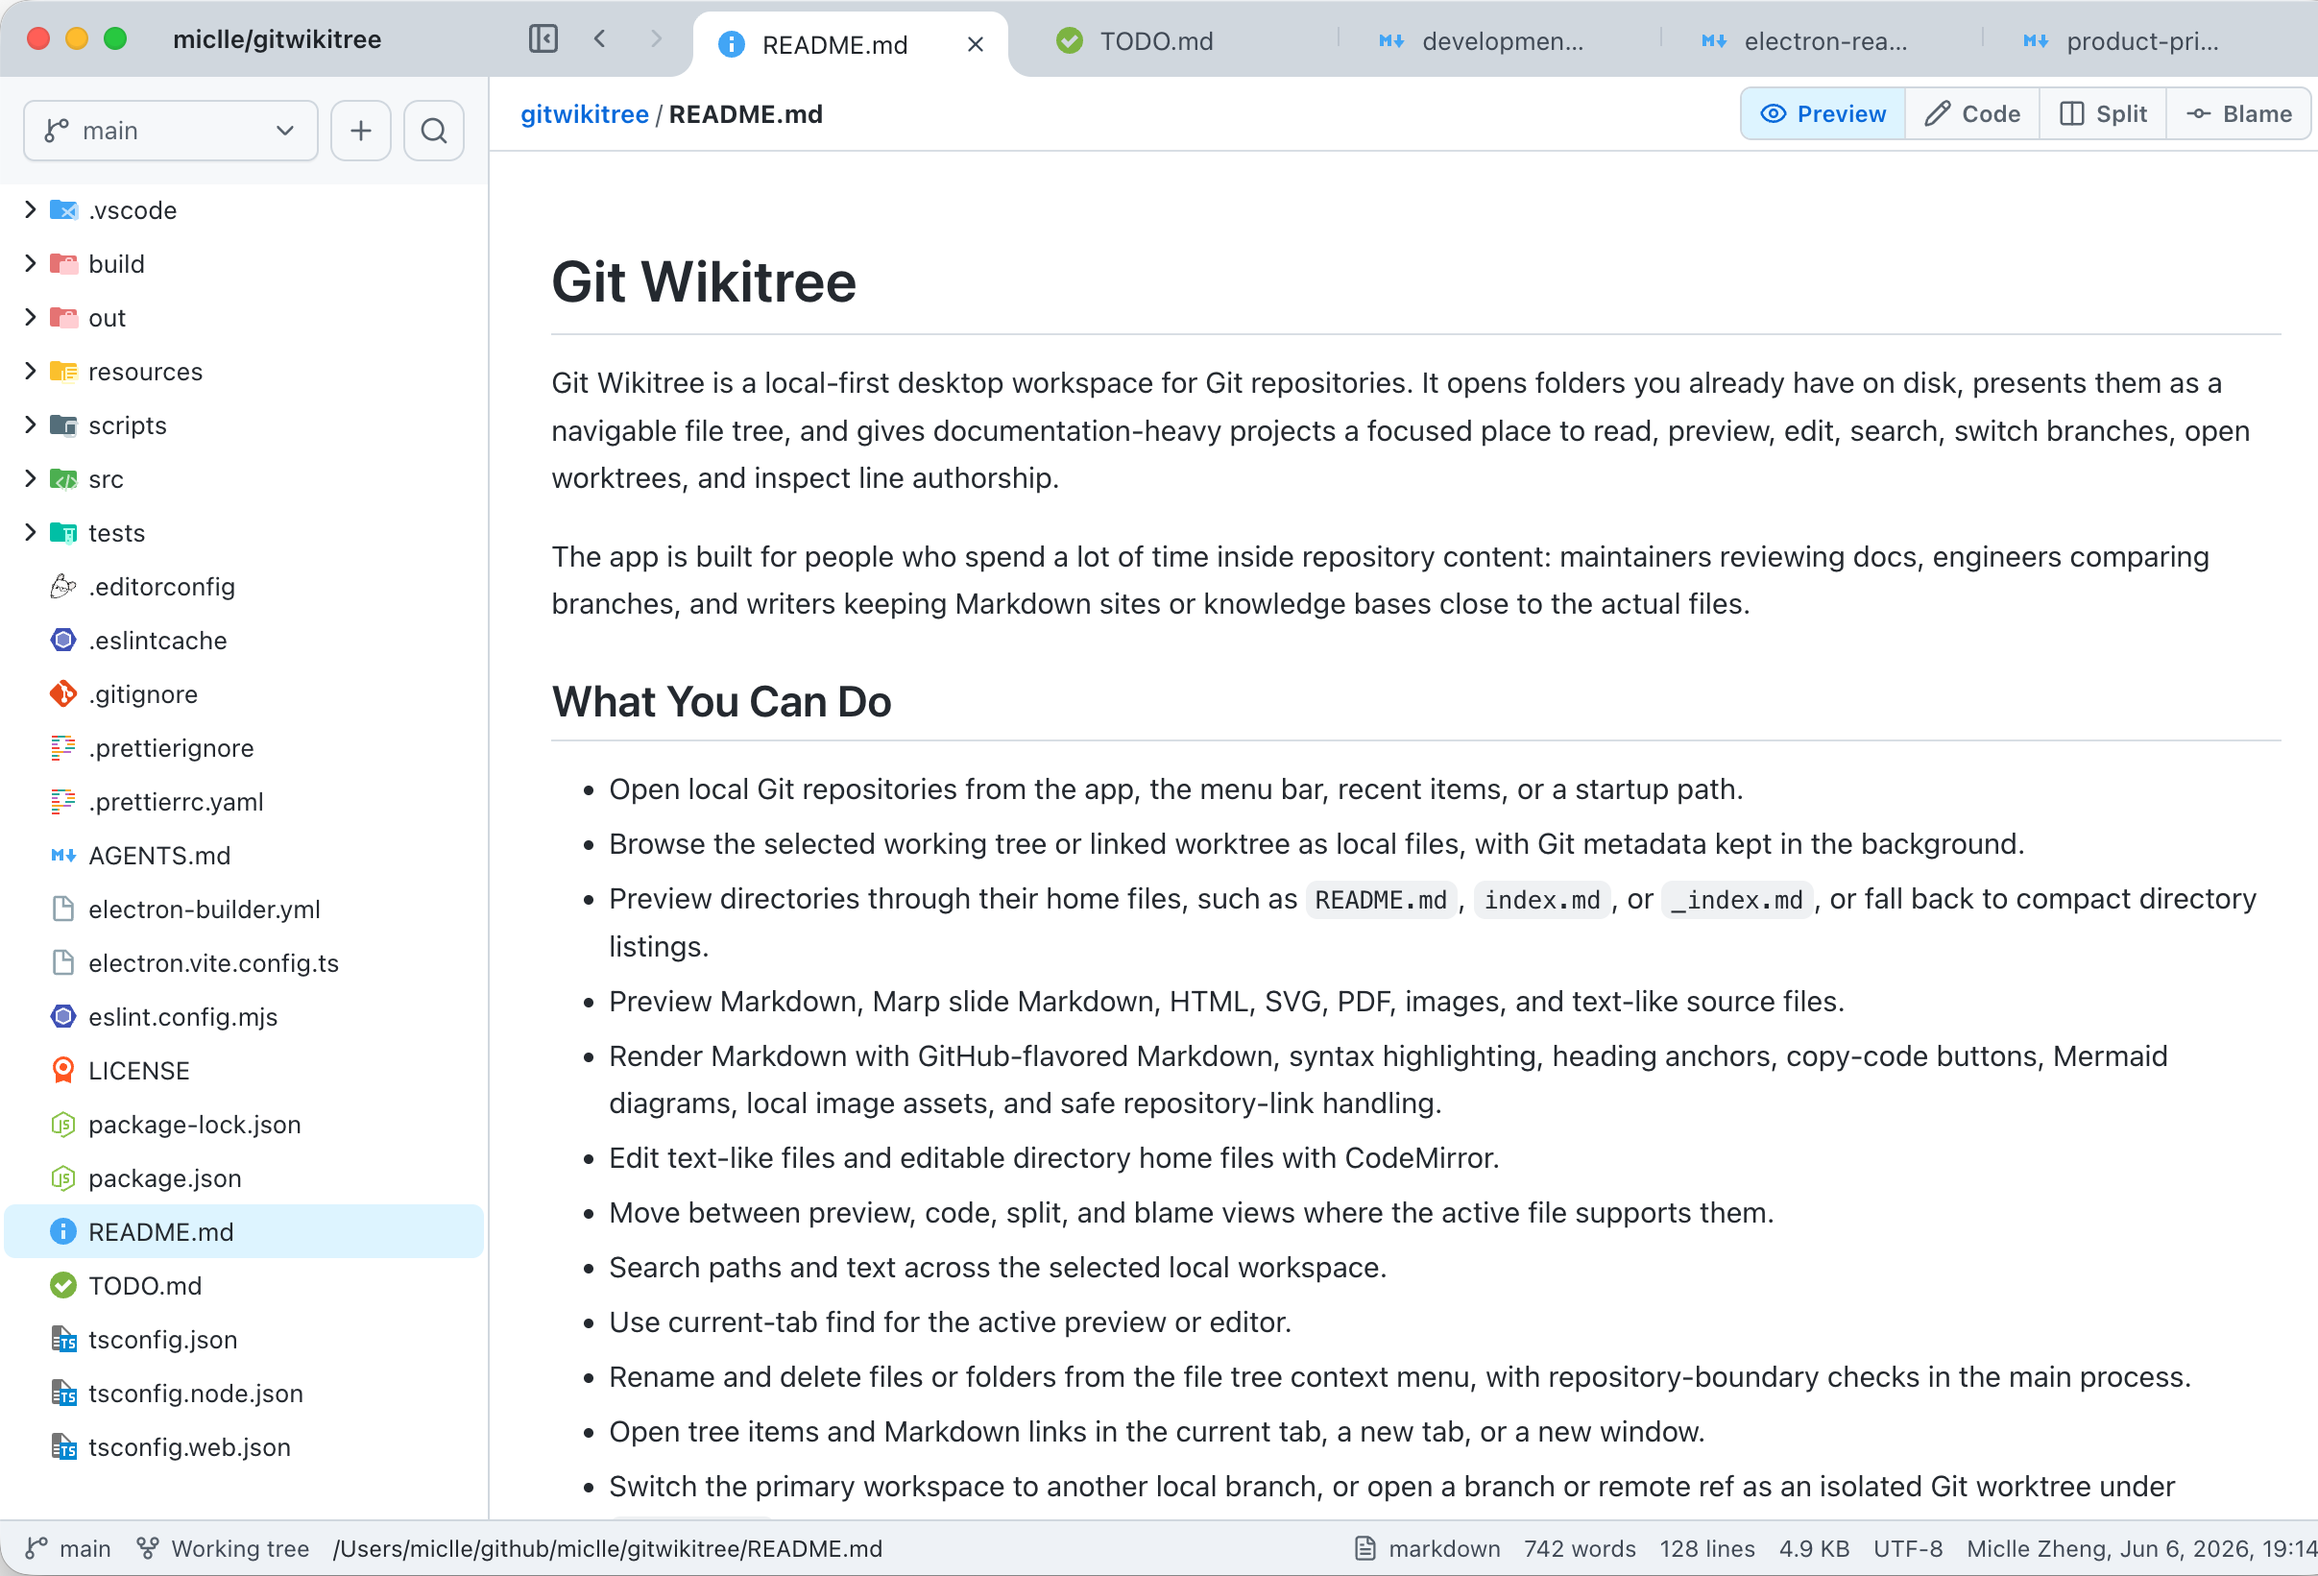
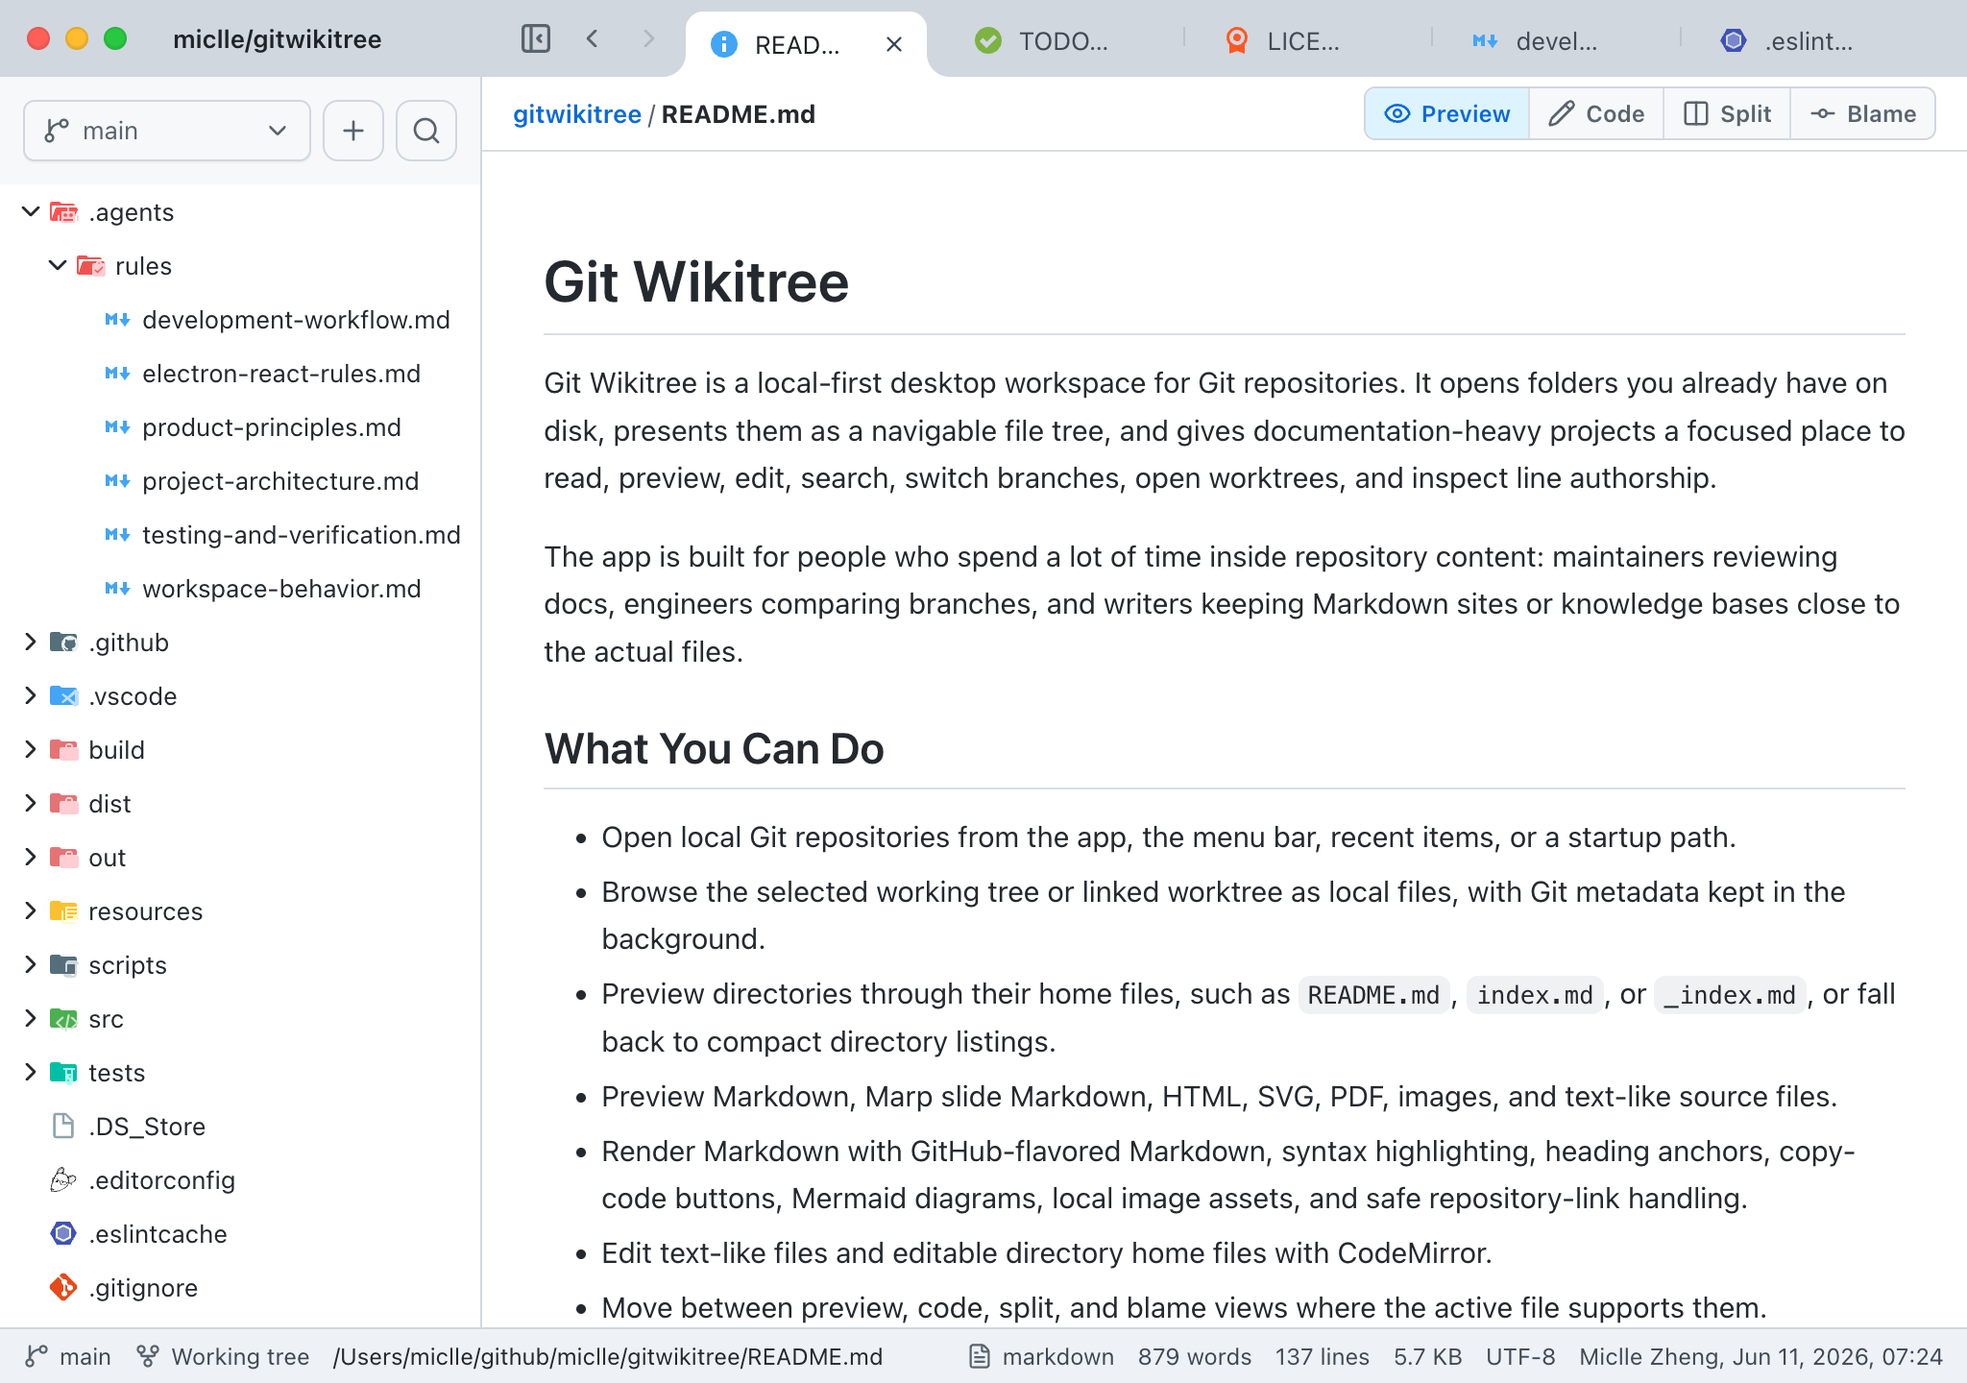
refactor(website): refresh app screenshot
Replace the hero image with a complete desktop app capture and align the screenshot frame ratio so the website no longer crops the app preview.

Changed region(s): [[0.0, 0.0, 1.0, 1.0]]

diff --git a/src/App.css b/src/App.css
@@ -238,7 +238,7 @@ nav a:hover,
 .screenshot-frame {
   overflow: hidden;
   width: 100%;
-  aspect-ratio: 2414 / 1641;
+  aspect-ratio: 2048 / 1440;
   border: 0;
   border-radius: 14px;
   background: transparent;
@@ -432,7 +432,7 @@ nav a:hover,
   }
 
   .app-screenshot {
-    object-fit: cover;
+    object-fit: contain;
     object-position: top center;
   }
 
